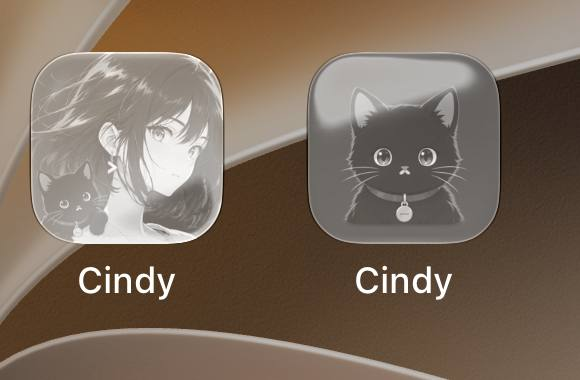
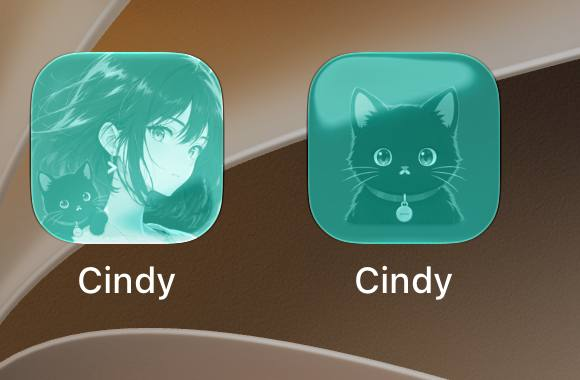
docs(mobile): 色调外观改用浅青色 tint 重截
白色 tint 下的色调外观与透明很接近，换成浅青色后三种外观差异清楚可辨；
更新 cat / mark / wordmark 的 tinted 截图并补充说明。

diff --git a/docs/design-evidence/2026-11-15/ios-app-icon/README.md b/docs/design-evidence/2026-11-15/ios-app-icon/README.md
@@ -20,6 +20,7 @@
 说明：
 
 - 深色外观下 wordmark / mark 使用各自提供的 dark 素材；cat 只提供一张素材，由系统按同一张图处理。
-- 透明 / 色调外观由系统从默认素材派生，三个备选图标都没有单独提供 clear / tinted 素材。
+- 透明 / 色调外观由系统从默认素材派生，三个备选图标都没有单独提供 clear / tinted 素材；
+  色调截图统一使用系统 tint 的浅青色（light cyan），以便与透明外观区分。
 - 系统提示由 iOS 固定文案，应用无法定制；切换成功与失败都会经过系统提示。
 - 四个图标都能切回默认，App 重启后选择保持。
